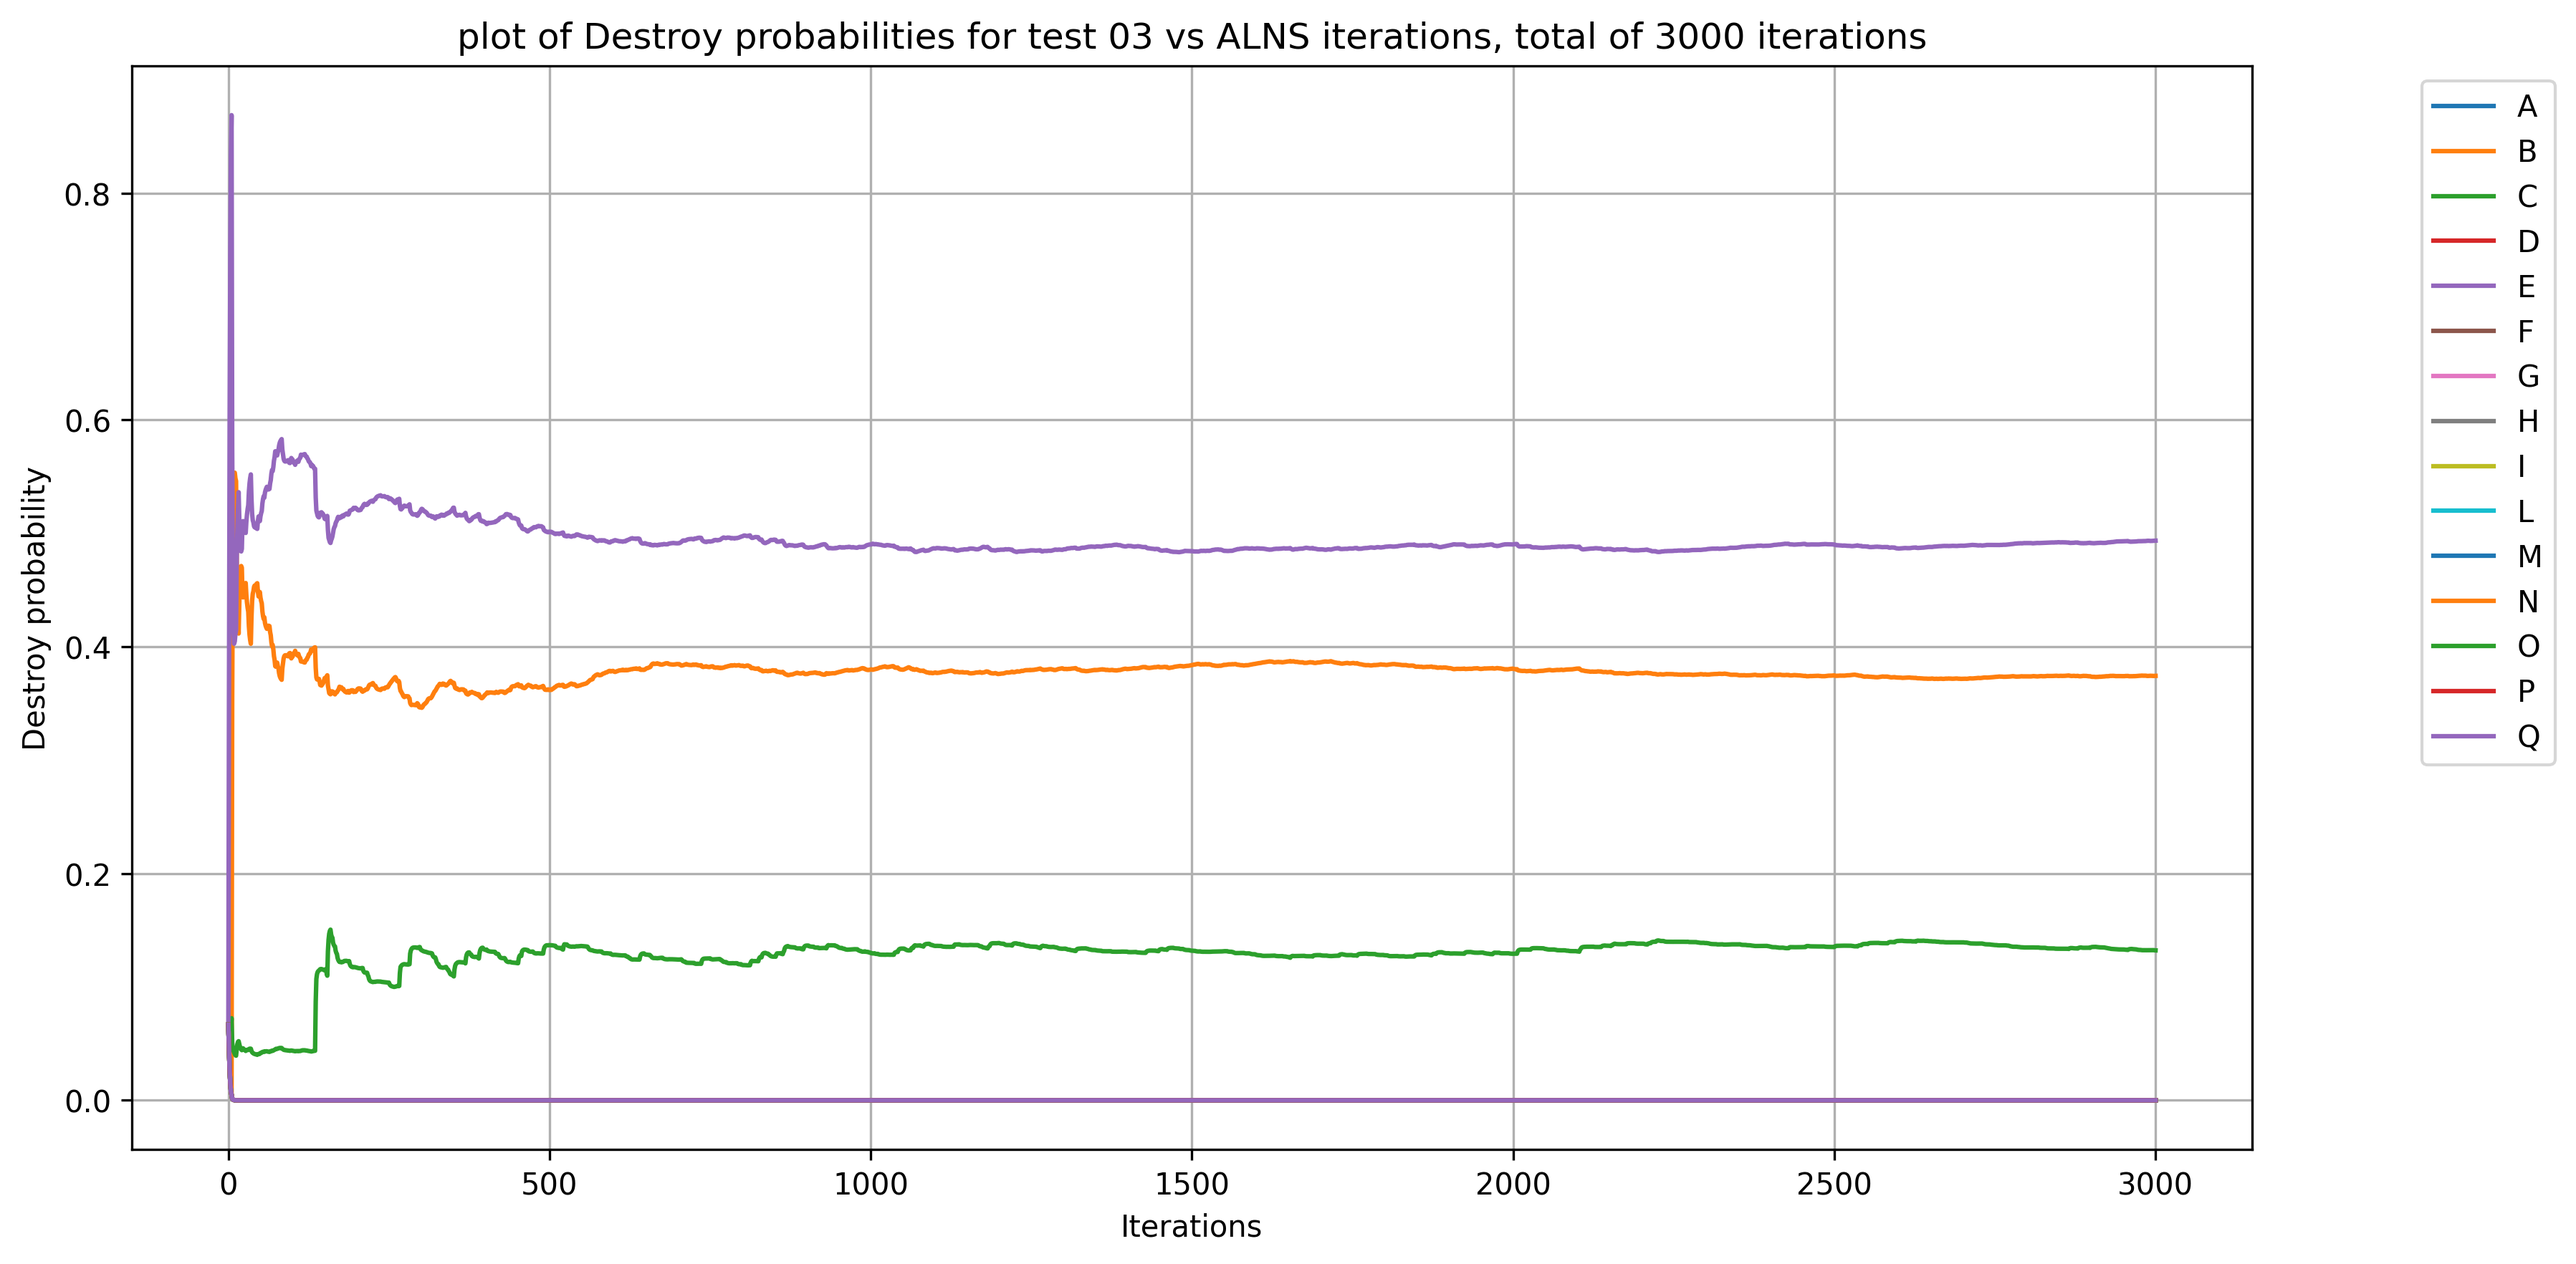
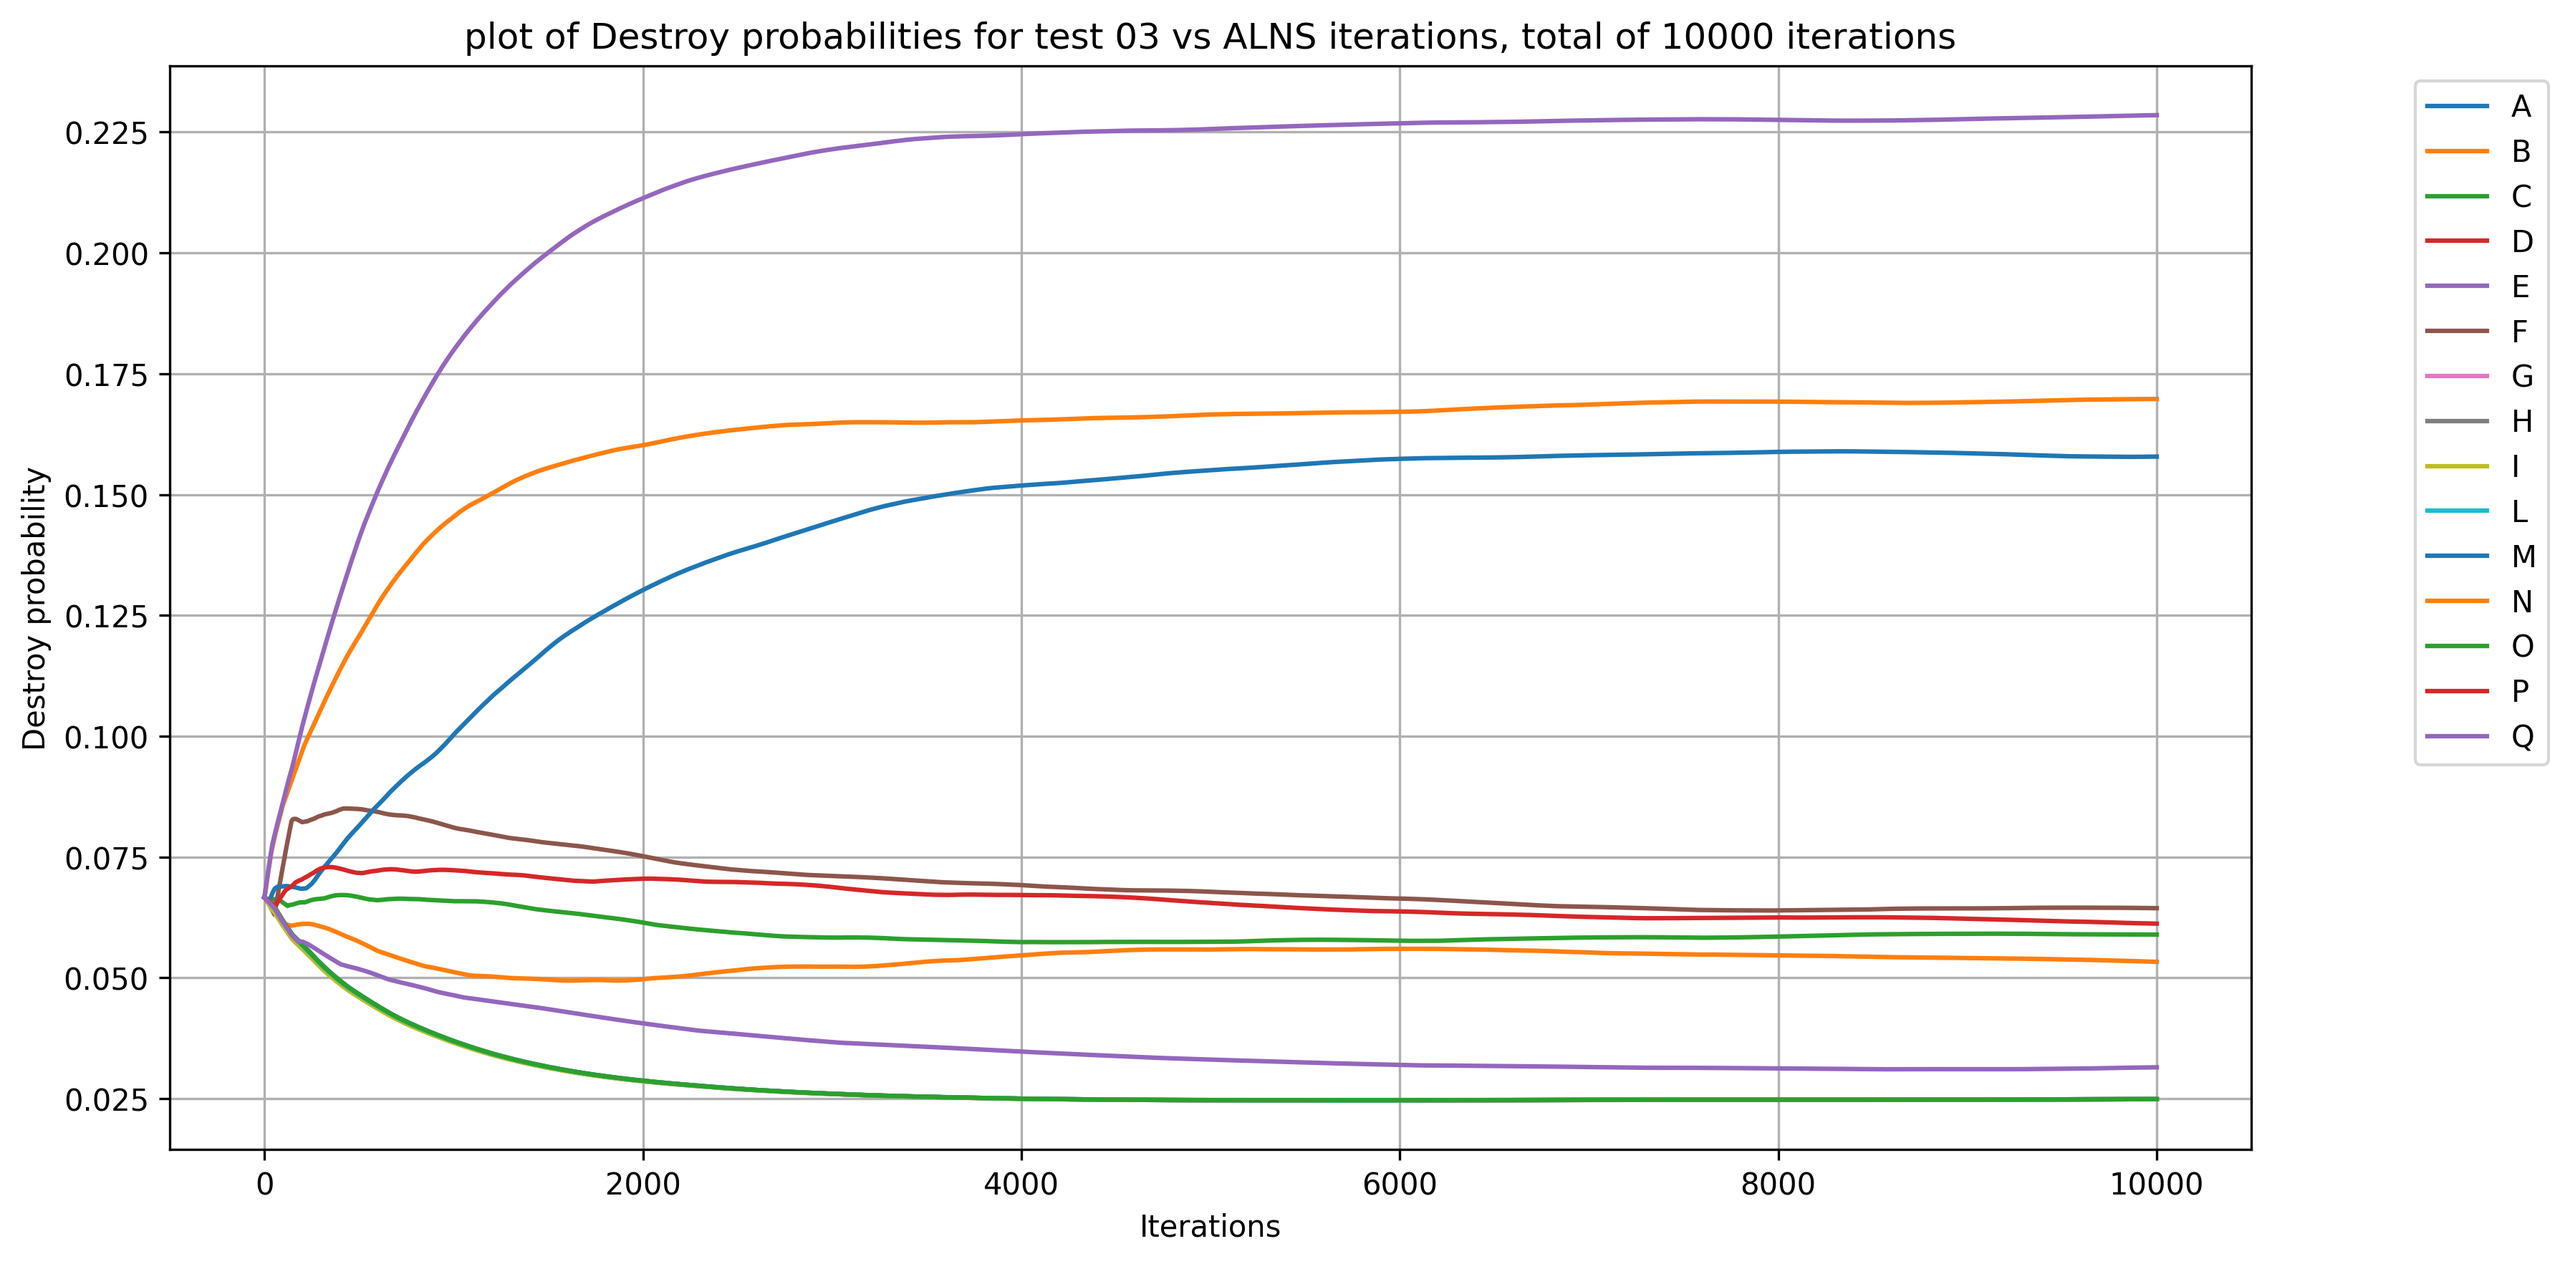
test

diff --git a/main.py b/main.py
@@ -53,7 +53,7 @@ def main():
 
     #  reading
 
-    filename = 'test02.json'
+    filename = 'test03.json'
 
     with open('test_data/'+filename, 'r') as file:
         data = json.load(file)
@@ -154,7 +154,7 @@ def main():
 
     # solving the problem
 
-    number_of_iterations = 100000
+    number_of_iterations = 10000
 
     solver = ALNS(problem, init_solution)
 
